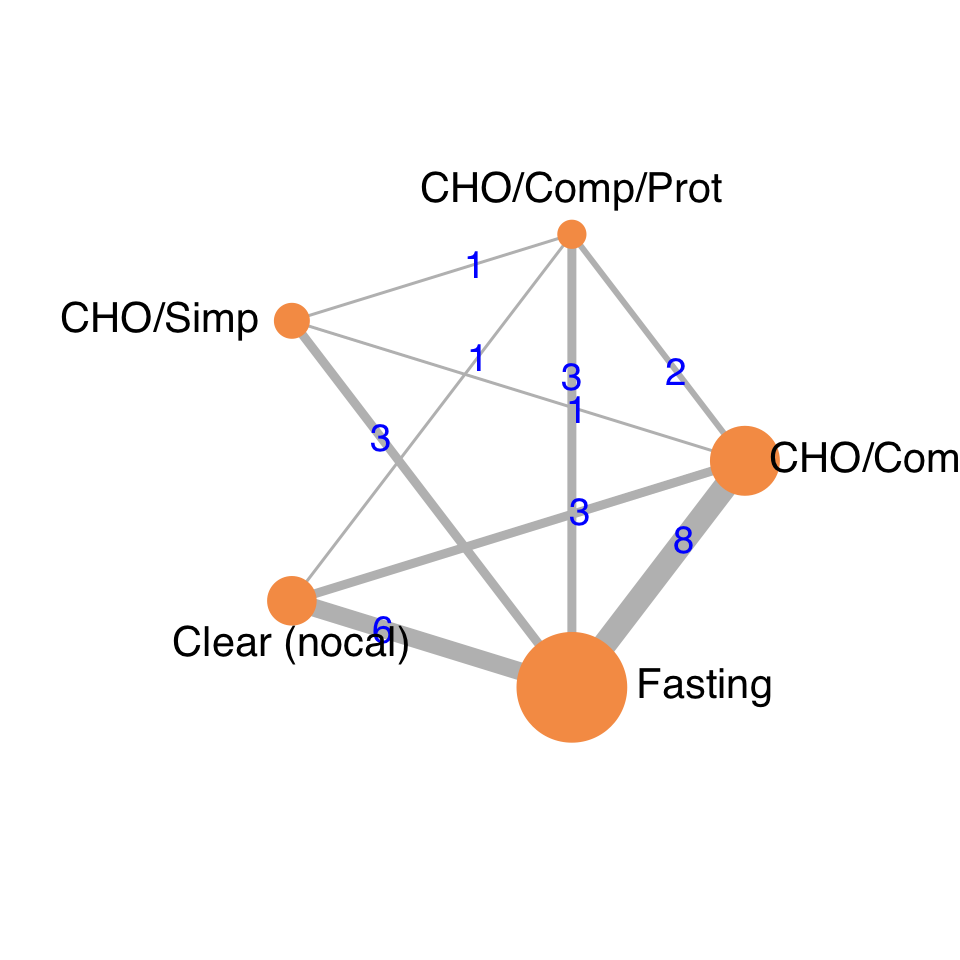
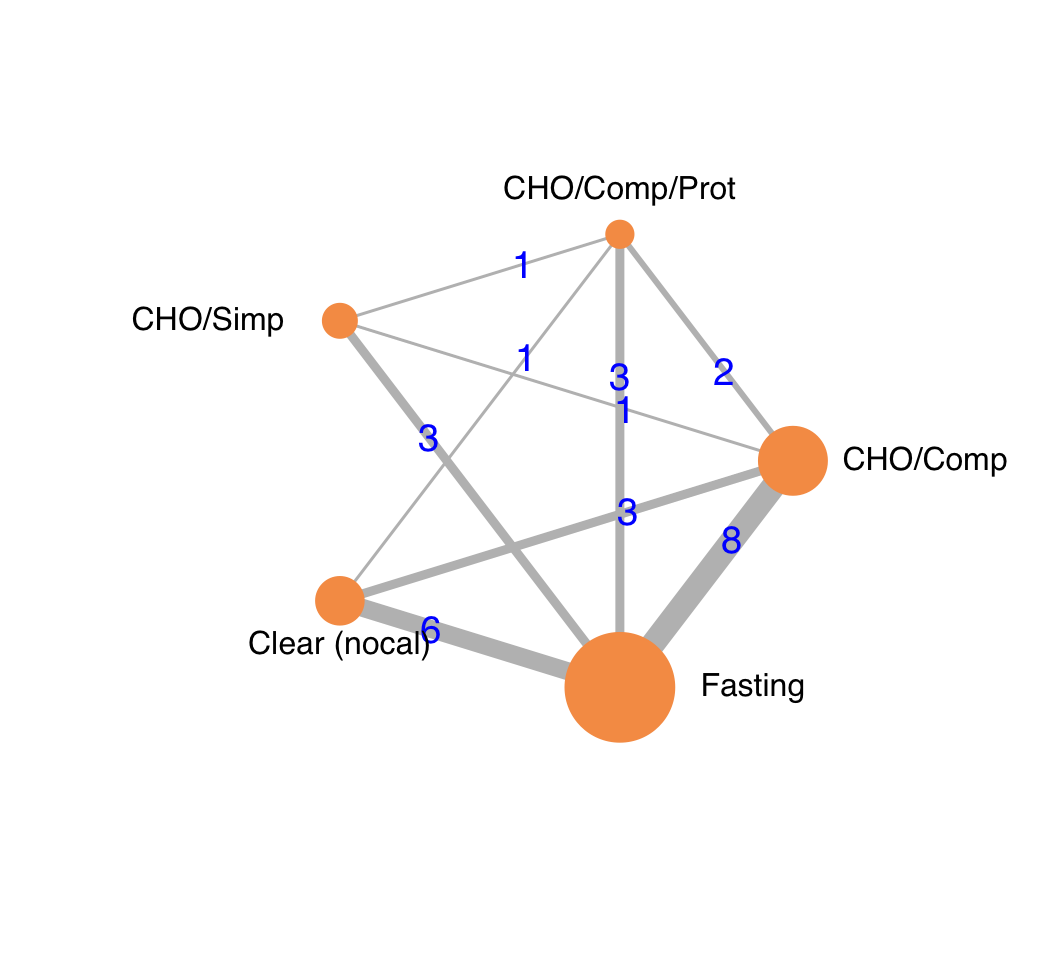
fixed rgv nma figure

diff --git a/docs/nma_final.html b/docs/nma_final.html
@@ -403,7 +403,7 @@ div.tocify {
 
 
 <h1 class="title toc-ignore">Network Meta-Analyses</h1>
-<h4 class="date">20 October, 2021 (18:59)</h4>
+<h4 class="date">20 October, 2021 (21:09)</h4>
 
 </div>
 
@@ -519,16 +519,16 @@ This reproducible <a href="http://rmarkdown.rstudio.com">R Markdown</a> analysis
 <div class="panel panel-default">
 <div class="panel-heading">
 <p class="panel-title">
-<a data-toggle="collapse" data-parent="#workflowr-checks" href="#strongRepositoryversionstrongahrefhttpsgithubcommdgrantFastingtree25a30db28f63ae1be77c7d86e69de3a2b7fbea99targetblank25a30dba"> <span class="glyphicon glyphicon-ok text-success" aria-hidden="true"></span> <strong>Repository version:</strong> <a href="https://github.com/mdgrant/Fasting/tree/25a30db28f63ae1be77c7d86e69de3a2b7fbea99" target="_blank">25a30db</a> </a>
+<a data-toggle="collapse" data-parent="#workflowr-checks" href="#strongRepositoryversionstrongahrefhttpsgithubcommdgrantFastingtree91ce1958b644801d2d44821ffb8ae51b4d63a617targetblank91ce195a"> <span class="glyphicon glyphicon-ok text-success" aria-hidden="true"></span> <strong>Repository version:</strong> <a href="https://github.com/mdgrant/Fasting/tree/91ce1958b644801d2d44821ffb8ae51b4d63a617" target="_blank">91ce195</a> </a>
 </p>
 </div>
[2 lines of base64/hex data omitted]
 <div class="panel-body">
 <p>
 Great! You are using Git for version control. Tracking code development and connecting the code version to the results is critical for reproducibility.
 </p>
 <p>
-The results in this page were generated with repository version <a href="https://github.com/mdgrant/Fasting/tree/25a30db28f63ae1be77c7d86e69de3a2b7fbea99" target="_blank">25a30db</a>. See the <em>Past versions</em> tab to see a history of the changes made to the R Markdown and HTML files.
+The results in this page were generated with repository version <a href="https://github.com/mdgrant/Fasting/tree/91ce1958b644801d2d44821ffb8ae51b4d63a617" target="_blank">91ce195</a>. See the <em>Past versions</em> tab to see a history of the changes made to the R Markdown and HTML files.
 </p>
 <p>
 Note that you need to be careful to ensure that all relevant files for the analysis have been committed to Git prior to generating the results (you can use <code>wflow_publish</code> or <code>wflow_git_commit</code>). workflowr only checks the R Markdown file, but you know if there are other scripts or data files that it depends on. Below is the status of the Git repository when the results were generated:
@@ -602,12 +602,12 @@ Untracked files:
     Untracked:  _@@/american-medical-association.csl
     Untracked:  _@@/anesthesiology.csl
     Untracked:  _@@/cho_amts.csv
+    Untracked:  _@@/nma_final_working.Rmd
     Untracked:  _@@/rgv_cinema_11.28_10_17_2021.cnm
     Untracked:  _@@/thirst_nma_working.R
     Untracked:  _site.yml_back
     Untracked:  analysis/.gitignore
     Untracked:  analysis/jama.csl
-    Untracked:  analysis/nma_final_working.Rmd
     Untracked:  analysis/nma_hunger_thirst.Rmd
     Untracked:  code/.gitignore
     Untracked:  code/bayes_sensitivity.R
@@ -629,7 +629,6 @@ Untracked files:
     Untracked:  code/metaHungerClear.R
     Untracked:  code/nma_sensitivity.R
     Untracked:  code/raw_log.R
-    Untracked:  code/readFilesSummary_120220_wfr.R
     Untracked:  code/robGum.R
     Untracked:  code/rob_021121.R
     Untracked:  code/rob_protein.R
@@ -656,10 +655,7 @@ Untracked files:
     Untracked:  figures/
 
 Unstaged changes:
-    Modified:   analysis/_site.yml
-    Modified:   analysis/index.Rmd
     Modified:   analysis/nma_final.Rmd
-    Modified:   code/readFiles_120220_wfr.R
 
 </code></pre>
 <p>
@@ -698,6 +694,40 @@ Message
 </tr>
 </thead>
 <tbody>
+<tr>
+<td>
+Rmd
+</td>
+<td>
+<a href="https://github.com/mdgrant/Fasting/blob/99ed6902bf20a33b53c554636d0d428777fa525f/analysis/nma_final.Rmd" target="_blank">99ed690</a>
+</td>
+<td>
+Mark Grant
+</td>
+<td>
+2021-10-20
+</td>
+<td>
+hunger thirst nma added other updated
+</td>
+</tr>
+<tr>
+<td>
+html
+</td>
+<td>
+<a href="https://rawcdn.githack.com/mdgrant/Fasting/99ed6902bf20a33b53c554636d0d428777fa525f/docs/nma_final.html" target="_blank">99ed690</a>
+</td>
+<td>
+Mark Grant
+</td>
+<td>
+2021-10-20
+</td>
+<td>
+hunger thirst nma added other updated
+</td>
+</tr>
 <tr>
 <td>
 Rmd
@@ -1700,7 +1730,7 @@ Whipple
 <h2><em>Network Characteristics</em></h2>
 <p><br/></p>
 <p><font size = 4> Figure 1. Network plot of comparators in included studies. </font></p>
-<p><img src="figure/nma_final.Rmd/rgvNMA-1.png" width="480" style="display: block; margin: auto auto auto 0;" /></p>
+<p><img src="figure/nma_final.Rmd/rgvNMA-1.png" width="528" style="display: block; margin: auto auto auto 0;" /></p>
 <p>
 <button type="button" class="btn btn-default btn-xs btn-workflowr btn-workflowr-fig" data-toggle="collapse" data-target="#fig-rgvNMA-1">
 Past versions of rgvNMA-1.png
